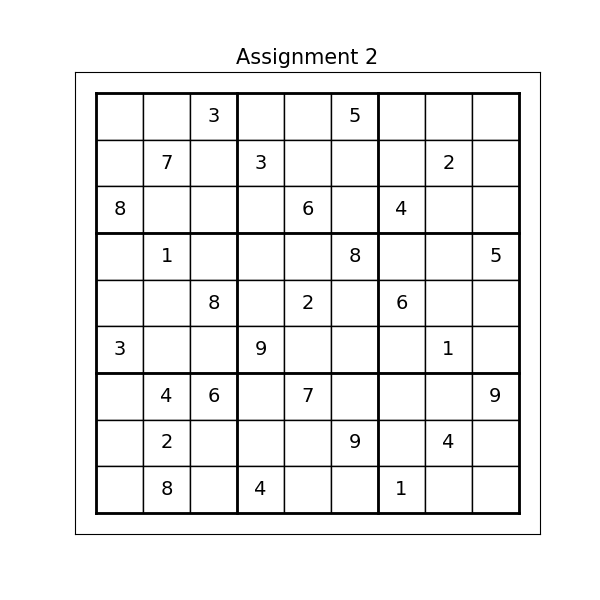
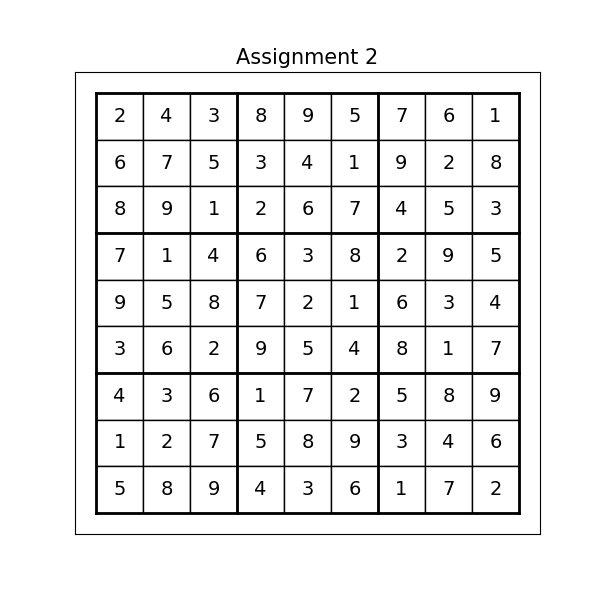
clean up backtracker

diff --git a/experiments/backtracking_search/backtrack_caNetwork.py b/experiments/backtracking_search/backtrack_caNetwork.py
@@ -35,21 +35,8 @@ class Backtracker:
             #self.propagator.add_affected_directions(newKeys)
             #print("## After message queue: {}".format(self.propagator.messageQueue))
 
-
-            try:
-                print("Iteration {}: Propagation starts with keys {}.".format(iteration + 1, newKeys))
-                self.propagator.propagate_until_convergence(nonTrivialFeatureKeys=newKeys, verbose=False)
-            except Exception as e:
-                print("Propagation ended with exception: {}".format(e))
-                self.failedAssignments.append(self.currentAssignment)
-                self.reinitialize()
-                print("Reinitializing due to inconsistency.")
-            else:
-                solutionEvidence = meanParams_to_evidence(self.propagator.meanParamDict)
-                self.plateauAssignments.append((self.currentAssignment, solutionEvidence))
-                self.currentAssignment = solutionEvidence
-                print("Propagation without inconsistency. Current assignment length {}.".format(
-                    len(self.currentAssignment)))
+            print("Iteration {}: Propagation starts with keys {}.".format(iteration + 1, newKeys))
+            self.try_to_propagate(newKeys)
 
             start_array = vis.evidence_to_array(self.currentAssignment, num=self.num)
             vis.visualize_sudoku(start_array.astype(int), number=self.num, label=f"Assignment {iteration + 1}")
@@ -76,6 +63,22 @@ class Backtracker:
         print("Max iterations reached.")
         return self.currentAssignment, maxIterations
 
+    def try_to_propagate(self, newKeys):
+        try:
+            self.propagator.propagate_until_convergence(nonTrivialFeatureKeys=newKeys, verbose=False)
+        except Exception as e:
+            print("Propagation ended with exception: {}".format(e))
+            self.failedAssignments.append(self.currentAssignment)
+            self.reinitialize()
+            print("Reinitializing due to inconsistency.")
+        else:
+            solutionEvidence = meanParams_to_evidence(self.propagator.meanParamDict)
+            self.plateauAssignments.append((self.currentAssignment, solutionEvidence))
+            self.currentAssignment = solutionEvidence
+            print("Propagation without inconsistency. Current assignment length {}.".format(
+                len(self.currentAssignment)))
+
+
     def extend_clusters(self):
         # Detect locked candidates_box_line constraints
         locked_info = self.detect_locked_candidates_box_line()
@@ -86,12 +89,14 @@ class Backtracker:
             overlap = locked_inferenceClusters.keys() & self.propagator.inferenceClusters.keys()
             for key in overlap:
                 del locked_inferenceClusters[key]
-            
+            print(f"Locked candidates to add as new constraints: {locked_inferenceClusters.keys()}")
+
             if len(locked_inferenceClusters) > 0:
                 # Repropagate if we have found new constraints
                 new_inferenceClusters = {**self.propagator.inferenceClusters, **locked_inferenceClusters}
                 self.propagator.update_inferenceClusters(new_inferenceClusters)
-                self.propagator.propagate_until_convergence(nonTrivialFeatureKeys=[color for colors in locked_info for color in colors], verbose=False)
+                self.try_to_propagate(newKeys=[color for colors in locked_info for color in colors])  
+                # self.propagator.propagate_until_convergence(nonTrivialFeatureKeys=[color for colors in locked_info for color in colors], verbose=False)
                 
                 # Search for it again, since we might have added new constraints that allow to detect more locked candidates
                 locked_info = self.detect_locked_candidates_box_line()
